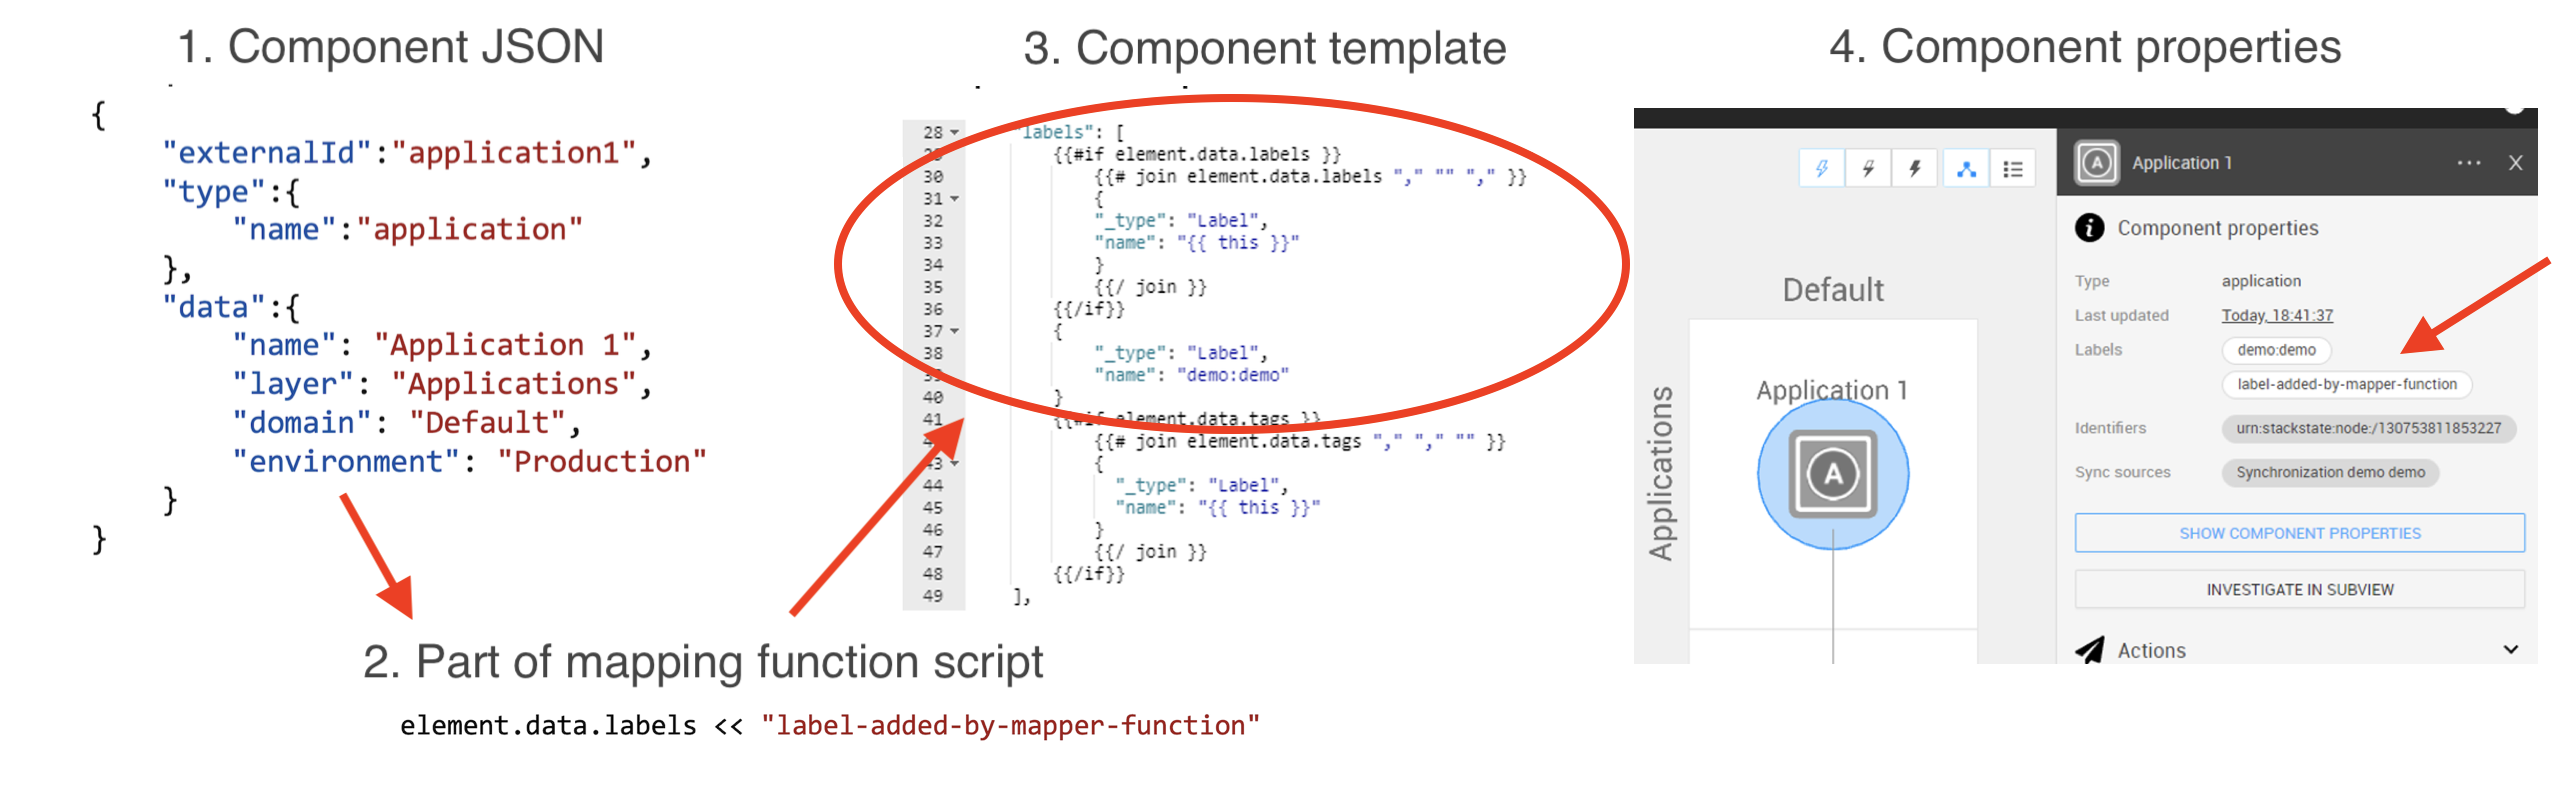
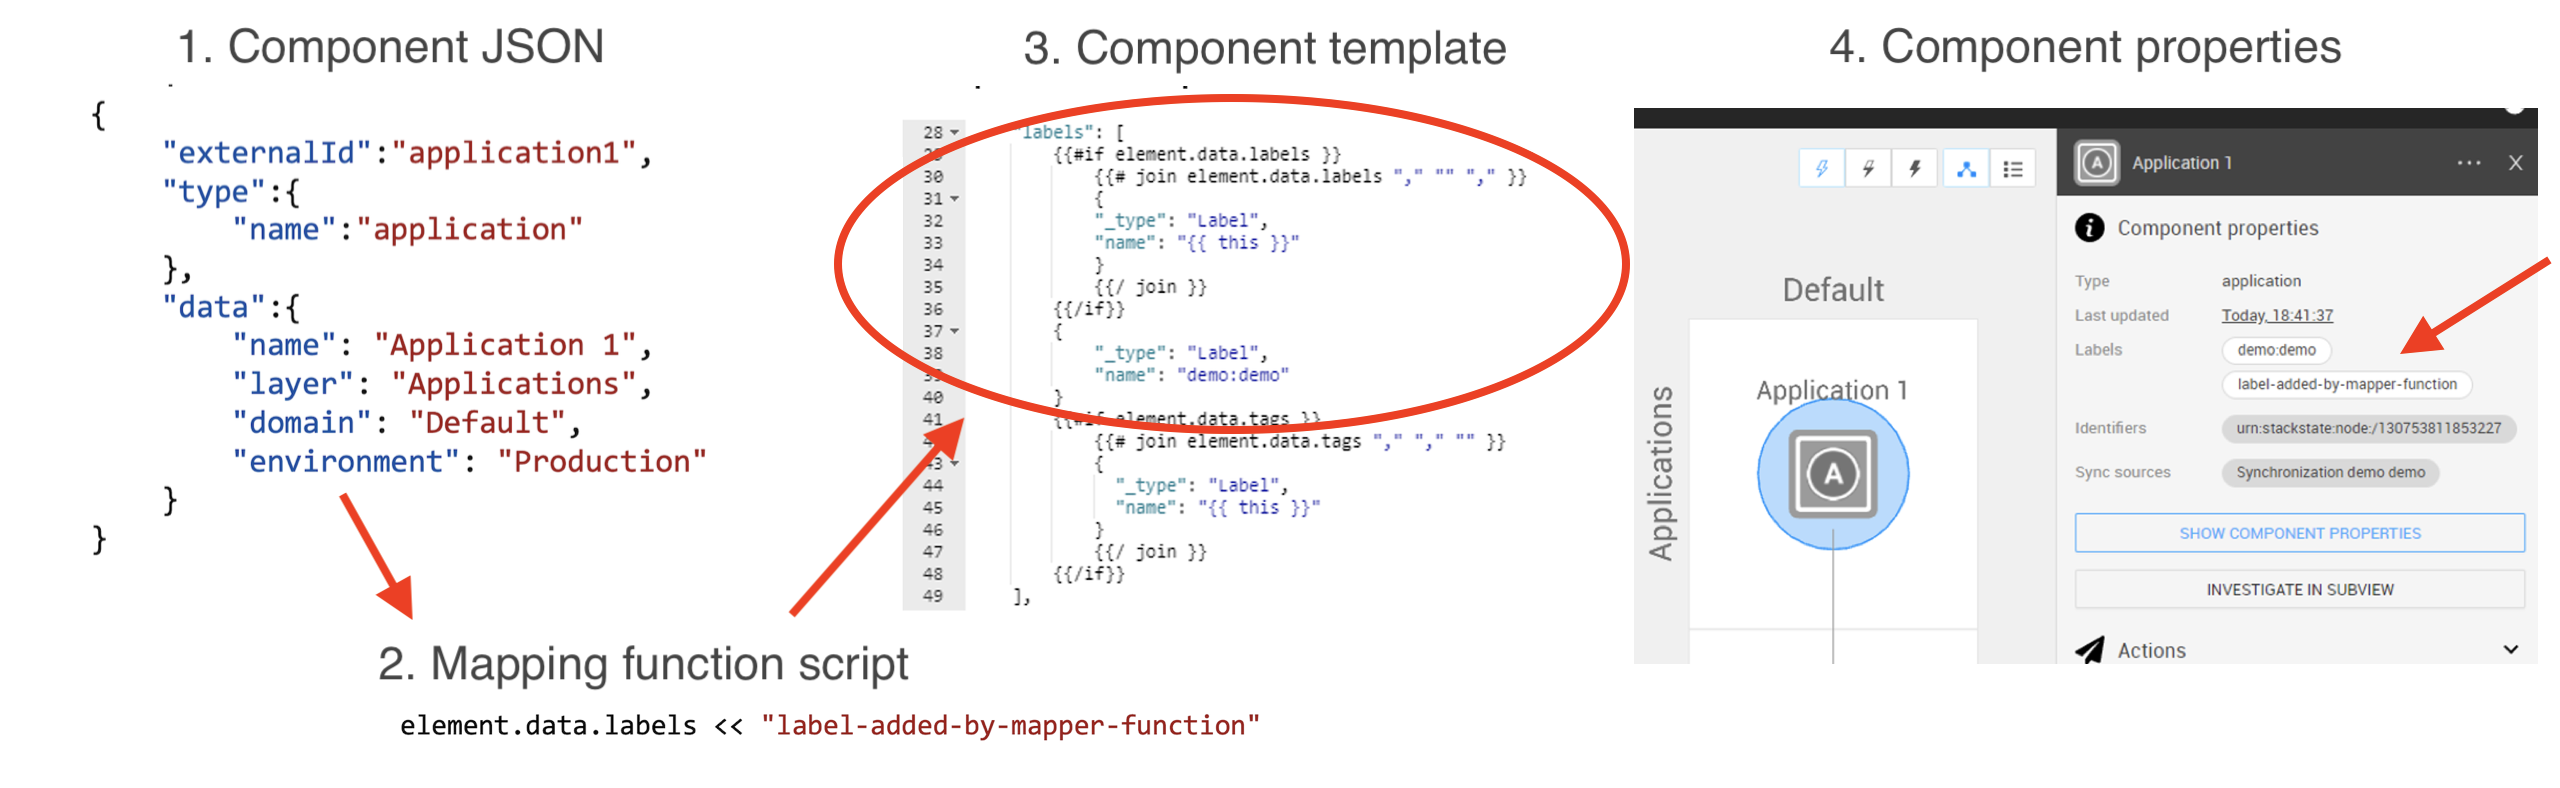
finish simple exampl

Changed region(s): [[0.125, 0.8223, 0.4062, 0.8832]]

diff --git a/develop/developer-guides/custom-functions/mapping-functions.md b/develop/developer-guides/custom-functions/mapping-functions.md
@@ -65,12 +65,12 @@ Mapping functions are specified in step 3/5 of a topology synchronization. Here,
 
 #### Component
 
-The resulting component is shown here.
+The process and resulting component is shown here.
 
 ![Component with label](/.gitbook/assets/v51_simple_mapping_result.png)
 
 1. **Component JSON** - The component JSON object that was sent to the StackState receiver as part of a larger JSON payload is shown on the left. The JSON defines a component with name **Application1**. The JSON payload is processed by the topology synchronization on which the mapper function was configured.
-2. **Mapping function** - A part of the mapping function is shown at the bottom to show the value of the label.
+2. **Mapping function script** - A part of the mapping function is shown at the bottom to show the value of the label.
 3. **Component template** - A part of the component template is shown in the center. In the component template, the `labels` payload is processed using the `join` helper, as shown on line 30. This iterates through each string in the label list and outputs the JSON block on lines 31 until 34. The `this` variable inside the `join` helper on line 33 is used access the current value in the iteration. In this example, there is only one label to be processed. This is because there is no `labels` key in the original JSON and the mapping function adds the only one. Lines 37 until 40 also define a fixed label. The label defined there will have the value `demo:demo`. This shows that, in this example, the mapping function could also be replaced by adding the appropriate label block directly in the component template.
 4. **Component details** - On the right is the Component Details tab of the **Application1** component after the JSON payload has been  processed by topology synchronization. 
 The **Application1** component has two labels:
